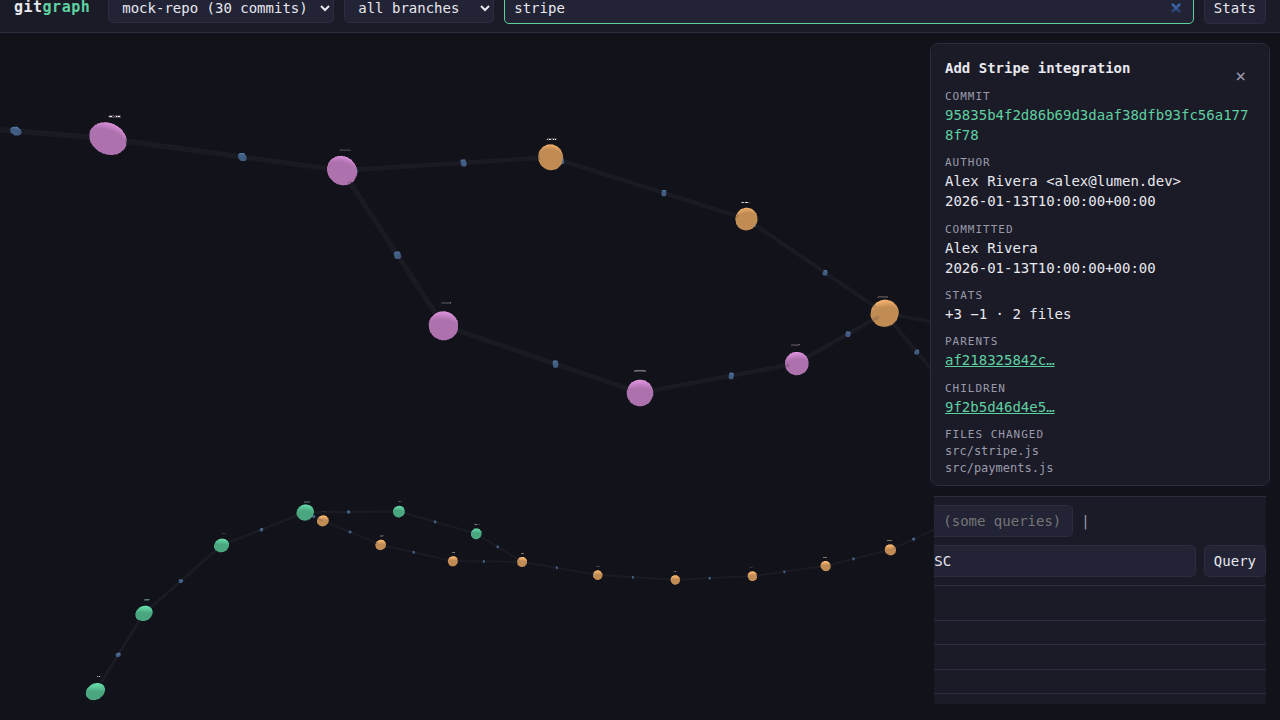
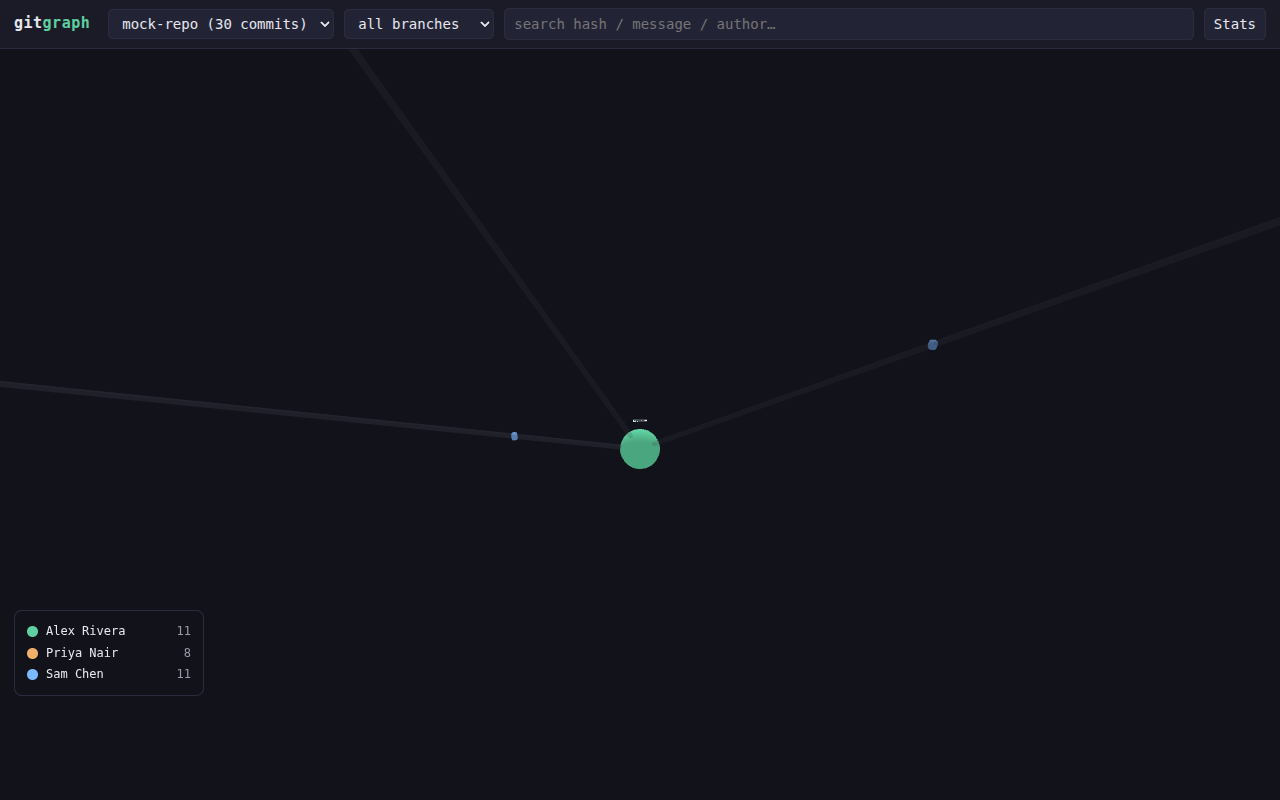
Structured 3D space: time x branch x author, with legend
The force layout clumped commits into a necklace. The graph is now a
deterministic 3D timeline:
- X axis: time (newest at the right)
- Y axis: branch lanes (main one line)
- Z axis: authors — each author gets their own depth plane
- nodes colored by author, legend showing names + commit counts,
  label sprites show message + author
- camera frames the space from a 3/4 angle with damping and a gentle
  auto-rotate that stops on first interaction
- mock repo now has 3 fictional authors so the dimension is real
- one-shot playwright capture script (scripts/capture_demo.js) — the
  long-lived headless daemon kept losing its GPU process

diff --git a/static/app.js b/static/app.js
@@ -7,8 +7,10 @@ const PALETTE = [
   "#5fd0a0", "#7ab8ff", "#f2b06b", "#d98fd9", "#ff8f8f",
   "#8fd9d9", "#e0d27a", "#a0e07a", "#d9a05f", "#9fa8ff",
 ];
-const branchColor = (() => { const m = new Map(); let i = 0;
-  return (b) => { if (!m.has(b)) m.set(b, PALETTE[i++ % PALETTE.length]); return m.get(b); }; })();
+const colorFor = (() => { const m = new Map(); let i = 0;
+  return (k) => { if (!m.has(k)) m.set(k, PALETTE[i++ % PALETTE.length]); return m.get(k); }; })();
+const branchColor = (b) => colorFor("b:" + b);
+const authorColor = (a) => colorFor("a:" + a);
 
 async function jget(url) {
   const r = await fetch(url);
@@ -59,9 +61,51 @@ async function loadBranches() {
 
 /* ---------------- 3D graph ---------------- */
 
+function layout3d(nodes, edges) {
+  // levels: distance from the tip set (newest = level 0)
+  const child = new Map();
+  for (const e of edges) (child.get(e.target) ?? child.set(e.target, []).get(e.target)).push(e.source);
+  const level = new Map();
+  const ids = new Set(nodes.map((n) => n.id));
+  const tips = nodes.filter((n) => !child.get(n.id)?.length);
+  const stack = tips.map((t) => t.id);
+  for (const t of stack) level.set(t, 0);
+  while (stack.length) {
+    const id = stack.pop();
+    const l = level.get(id) ?? 0;
+    for (const e of edges) {
+      if (e.source !== id) continue;
+      if (!ids.has(e.target)) continue;
+      if (!level.has(e.target) || level.get(e.target) < l + 1) {
+        level.set(e.target, l + 1);
+        stack.push(e.target);
+      }
+    }
+  }
+  const maxLevel = Math.max(0, ...level.values());
+
+  // structured space: time on X, branches on Y, authors on Z
+  const order = ["main", "master", "develop"];
+  const branches = [...new Set(nodes.map((n) => n.branch).filter(Boolean))];
+  branches.sort((a, b) => {
+    const ai = order.indexOf(a), bi = order.indexOf(b);
+    return (ai === -1 ? 99 : ai) - (bi === -1 ? 99 : bi);
+  });
+  const authors = [...new Set(nodes.map((n) => n.author).filter(Boolean))].sort();
+  const bLane = new Map(branches.map((b, i) => [b, i]));
+  const aLane = new Map(authors.map((a, i) => [a, i]));
+  const HS = 100, BS = 150, AS = 180;
+  const pos = new Map(nodes.map((n) => [n.id, {
+    x: (maxLevel - (level.get(n.id) ?? 0)) * HS,
+    y: ((bLane.get(n.branch) ?? 0) - (branches.length - 1) / 2) * BS,
+    z: ((aLane.get(n.author) ?? 0) - (authors.length - 1) / 2) * AS,
+  }]));
+  return { pos, maxLevel, branches, authors };
+}
+
 const Graph = ForceGraph3D()(document.getElementById("cy"))
   .backgroundColor("#12121a")
-  .nodeRelSize(6)
+  .nodeRelSize(5)
   .nodeVal((n) => (n.merged ? 1.6 : 1))
   .nodeColor((n) => n.color)
   .nodeLabel((n) =>
@@ -80,32 +124,37 @@ const Graph = ForceGraph3D()(document.getElementById("cy"))
   .onNodeHover((n) => {
     document.body.style.cursor = n ? "pointer" : "default";
   })
+  .d3AlphaDecay(1)   // sim settles instantly: the structured layout holds
   .nodeThreeObject((n) => {
     const THREE = window.THREE;
     const group = new THREE.Group();
     const sphere = new THREE.Mesh(
-      new THREE.SphereGeometry(n.merged ? 4.5 : 3.4, 16, 16),
+      new THREE.SphereGeometry(n.merged ? 4.6 : 3.4, 16, 16),
       new THREE.MeshLambertMaterial({ color: n.color }));
     group.add(sphere);
     const canvas = document.createElement("canvas");
     const ctx = canvas.getContext("2d");
     const text = n.msg.slice(0, 26);
+    const who = n.author || "";
     ctx.font = "600 13px 'DejaVu Sans Mono', monospace";
-    const w = Math.max(90, ctx.measureText(text).width + 14);
-    canvas.width = w * 2; canvas.height = 44;
+    const w = Math.max(100, ctx.measureText(text).width + 14);
+    canvas.width = w * 2; canvas.height = 66;
     ctx.scale(2, 2);
     ctx.font = "600 13px 'DejaVu Sans Mono', monospace";
     ctx.fillStyle = "rgba(18,18,26,0.88)";
-    ctx.fillRect(0, 0, w, 22);
+    ctx.fillRect(0, 0, w, 33);
     ctx.strokeStyle = n.color;
-    ctx.strokeRect(0.5, 0.5, w - 1, 21);
+    ctx.strokeRect(0.5, 0.5, w - 1, 32);
     ctx.fillStyle = "#e8e8ee";
     ctx.fillText(text, 7, 15);
+    ctx.font = "600 10px 'DejaVu Sans Mono', monospace";
+    ctx.fillStyle = n.color;
+    ctx.fillText(who, 7, 28);
     const tex = new THREE.CanvasTexture(canvas);
     tex.minFilter = THREE.LinearFilter;
     const sprite = new THREE.Sprite(new THREE.SpriteMaterial({ map: tex, depthTest: false }));
-    sprite.scale.set(w * 0.015, 22 * 0.015, 1);
-    sprite.position.y = 6;
+    sprite.scale.set(w * 0.015, 33 * 0.015, 1);
+    sprite.position.y = 7;
     group.add(sprite);
     return group;
   });
@@ -123,12 +172,49 @@ async function loadGraph() {
     merged: n.merged,
     tags: n.tags,
     add: n.add, del: n.del, files: n.files,
-    color: n.branch ? branchColor(n.branch) : "#6a6a7a",
+    color: authorColor(n.author || "?"),
   }));
   const links = data.edges.map((e) => ({ source: e.target, target: e.source }));
+  const L = layout3d(nodes, links);
+
+  // deterministic structured space: time on X, branches on Y, authors on Z.
+  // preset coordinates + d3AlphaDecay(1) means the sim never pulls it apart.
+  for (const n of nodes) {
+    const p = L.pos.get(n.id);
+    n.x = p.x; n.y = p.y; n.z = p.z;
+  }
+
   Graph.graphData({ nodes, links });
-  Graph.onEngineStop(() => Graph.zoomToFit(400, 60));
+  Graph.onEngineStop(() => {
+    // frame the space from a 3/4 angle — you're in the space, not staring at its center
+    const xs = nodes.map((n) => L.pos.get(n.id).x);
+    const maxX = Math.max(...xs);
+    Graph.cameraPosition(
+      { x: maxX * 0.55, y: -maxX * 0.42, z: maxX * 0.62 },
+      { x: maxX * 0.45, y: 0, z: 0 }, 900);
+  });
+  renderLegend(L.authors, nodes);
 }
+
+function renderLegend(authors, nodes) {
+  const counts = {};
+  for (const n of nodes) counts[n.author] = (counts[n.author] || 0) + 1;
+  const box = $("legend");
+  box.innerHTML = authors.length
+    ? authors.map((a) =>
+        `<div class="lg-row"><span class="lg-dot" style="background:${authorColor(a)}"></span>` +
+        `${esc(a)}<span class="lg-count">${counts[a] ?? 0}</span></div>`).join("")
+    : '<div class="lg-row" style="color:var(--dim)">no authors</div>';
+  box.hidden = !authors.length;
+}
+
+// smooth camera: damping + a gentle drift that stops the moment you interact
+const ctrl = Graph.controls();
+ctrl.enableDamping = true;
+ctrl.dampingFactor = 0.08;
+ctrl.autoRotate = true;
+ctrl.autoRotateSpeed = 0.5;
+ctrl.addEventListener("start", () => { ctrl.autoRotate = false; });
 
 /* ---------------- commit panel ---------------- */
 

diff --git a/scripts/capture_demo.js b/scripts/capture_demo.js
@@ -1,0 +1,136 @@
+#!/usr/bin/env node
+/* One-shot demo capture for gitgraph — fresh Chromium per run.
+   Usage: node scripts/capture_demo.js [outdir]
+   Saves: 01-graph.png 02-hover.png 03-panel.png 04-rotate.png 05-search.png 06-query.png
+*/
+const path = require("path");
+const fs = require("fs");
+const { chromium } = require("/home/genesis-t/gstack/node_modules/playwright");
+
+const OUT = process.argv[2] || path.join(__dirname, "..", "demo");
+const URL = process.env.GG_URL || "http://127.0.0.1:8001";
+
+const shot = async (page, name) => {
+  await page.screenshot({ path: path.join(OUT, name) });
+  console.log("captured", name);
+};
+
+const projectNode = (nodes, msg) => {
+  // project a node to screen coords using camera matrices
+  const cam = Graph.camera();
+  const m4 = (m, v) => [
+    m[0]*v[0]+m[4]*v[1]+m[8]*v[2]+m[12]*v[3],
+    m[1]*v[0]+m[5]*v[1]+m[9]*v[2]+m[13]*v[3],
+    m[2]*v[0]+m[6]*v[1]+m[10]*v[2]+m[14]*v[3],
+    m[3]*v[0]+m[7]*v[1]+m[11]*v[2]+m[15]*v[3],
+  ];
+  let target = null;
+  const walk = (o) => {
+    if (o.__graphObjType && o.__data && !target) {
+      if (String(o.__data.msg).startsWith(msg)) target = o;
+    }
+    if (o.children) for (const c of o.children) walk(c);
+  };
+  walk(Graph.scene());
+  if (!target) {
+    const walk2 = (o) => {
+      if (o.__graphObjType && o.__data && !target) target = o;
+      if (o.children) for (const c of o.children) walk2(c);
+    };
+    walk2(Graph.scene());
+  }
+  const p = target.position;
+  const vp = m4(cam.matrixWorldInverse.elements, [p.x, p.y, p.z, 1]);
+  const np = m4(cam.projectionMatrix.elements, vp);
+  const ndc = [np[0] / np[3], np[1] / np[3]];
+  const cv = document.querySelector("#cy canvas");
+  const r = cv.getBoundingClientRect();
+  return {
+    x: ((ndc[0] + 1) / 2) * cv.clientWidth + r.left,
+    y: ((1 - ndc[1]) / 2) * cv.clientHeight + r.top,
+    id: String(target.__data.id),
+  };
+};
+
+(async () => {
+  fs.mkdirSync(OUT, { recursive: true });
+  const browser = await chromium.launch({
+    headless: true,
+    args: [
+      "--enable-unsafe-swiftshader",
+      "--use-angle=swiftshader",
+      "--ignore-gpu-blocklist",
+      "--disable-gpu-sandbox",
+    ],
+  });
+  const page = await browser.newPage({ viewport: { width: 1280, height: 800 } });
+  page.on("console", (m) => { if (m.type() === "error") console.log("PAGE ERROR:", m.text().slice(0, 160)); });
+  page.on("pageerror", (e) => console.log("PAGE EXCEPTION:", String(e).slice(0, 160)));
+
+  await page.goto(URL, { waitUntil: "networkidle" });
+  await page.waitForFunction(() => typeof Graph !== "undefined", { timeout: 15000 });
+  await page.selectOption("#repo", "mock-repo");
+  await page.waitForFunction(
+    () => Graph.graphData().nodes.length > 0,
+    { timeout: 15000 });
+  await page.waitForTimeout(3800);  // fly-in animation + camera framing
+
+  // frame 1: overview
+  await shot(page, "01-graph.png");
+
+  // frame 2: aim camera at a node, hover -> tooltip
+  const aim = await page.evaluate(() => {
+    const g = Graph;
+    let target = null;
+    const walk = (o) => {
+      if (o.__graphObjType && o.__data && !target) {
+        if (String(o.__data.msg) === "Merge feat/payments into main") target = o;
+      }
+      if (o.children) for (const c of o.children) walk(c);
+    };
+    walk(g.scene());
+    if (!target) target = g.scene().children[3].children[0];
+    const p = target.position;
+    g.cameraPosition({ x: p.x + 130, y: p.y - 70, z: p.z + 130 }, { x: p.x, y: p.y, z: p.z }, 500);
+    return true;
+  });
+  await page.waitForTimeout(1800);
+  const hoverPt = await page.evaluate(projectNode, "Merge feat/payments into main");
+  await page.mouse.move(hoverPt.x, hoverPt.y);
+  await page.waitForTimeout(900);
+  await shot(page, "02-hover.png");
+
+  // frame 3: click -> panel
+  await page.mouse.click(hoverPt.x, hoverPt.y);
+  await page.waitForSelector("#panel:not([hidden])", { timeout: 5000 }).catch(() => {});
+  await page.waitForTimeout(800);
+  await shot(page, "03-panel.png");
+
+  // frame 4: rotated view
+  await page.evaluate(() => {
+    document.getElementById("panel").hidden = true;
+    Graph.cameraPosition({ x: -360, y: 210, z: 430 }, { x: 0, y: 0, z: 0 }, 700);
+  });
+  await page.waitForTimeout(1800);
+  await shot(page, "04-rotate.png");
+
+  // frame 5: search
+  await page.fill("#search", "stripe");
+  await page.waitForTimeout(1200);
+  await shot(page, "05-search.png");
+
+  // frame 6: query
+  await page.evaluate(() => {
+    const p = document.querySelector(".search-pop");
+    if (p) p.remove();
+    document.getElementById("results").hidden = false;
+    document.getElementById("rawq").value =
+      "MATCH (c:Commit)-[:AUTHORED_BY]->(a:Author) RETURN a.name AS author, count(c) AS commits ORDER BY commits DESC";
+    document.getElementById("runraw").click();
+  });
+  await page.waitForTimeout(1500);
+  await shot(page, "06-query.png");
+
+  await browser.close();
+  console.log("done");
+})().catch((e) => { console.error("CAPTURE FAILED:", e.message); process.exit(1); });

diff --git a/static/style.css b/static/style.css
@@ -40,6 +40,16 @@ main { flex: 1; position: relative; min-height: 0; }
 #cy { position: absolute; inset: 0; }
 #cy .cy-msg { font: 11px "DejaVu Sans Mono", monospace; }
 
+#legend {
+  position: absolute; left: 14px; bottom: 14px; z-index: 15;
+  background: rgba(18, 18, 26, 0.9); border: 1px solid var(--border);
+  border-radius: 8px; padding: 10px 12px; font-size: 12px;
+  min-width: 190px;
+}
+.lg-row { display: flex; align-items: center; gap: 8px; padding: 2px 0; }
+.lg-dot { width: 11px; height: 11px; border-radius: 50%; flex-shrink: 0; }
+.lg-count { margin-left: auto; color: var(--dim); }
+
 #tooltip {
   position: absolute; z-index: 30; pointer-events: none;
   background: var(--panel); border: 1px solid var(--accent);

diff --git a/static/index.html b/static/index.html
@@ -16,7 +16,7 @@
 
 <main>
   <div id="cy"></div>
-  <div id="tooltip" hidden></div>
+  <div id="legend" hidden></div>
   <aside id="panel" hidden>
     <button id="panel-close">&times;</button>
     <div id="panel-body"></div>
